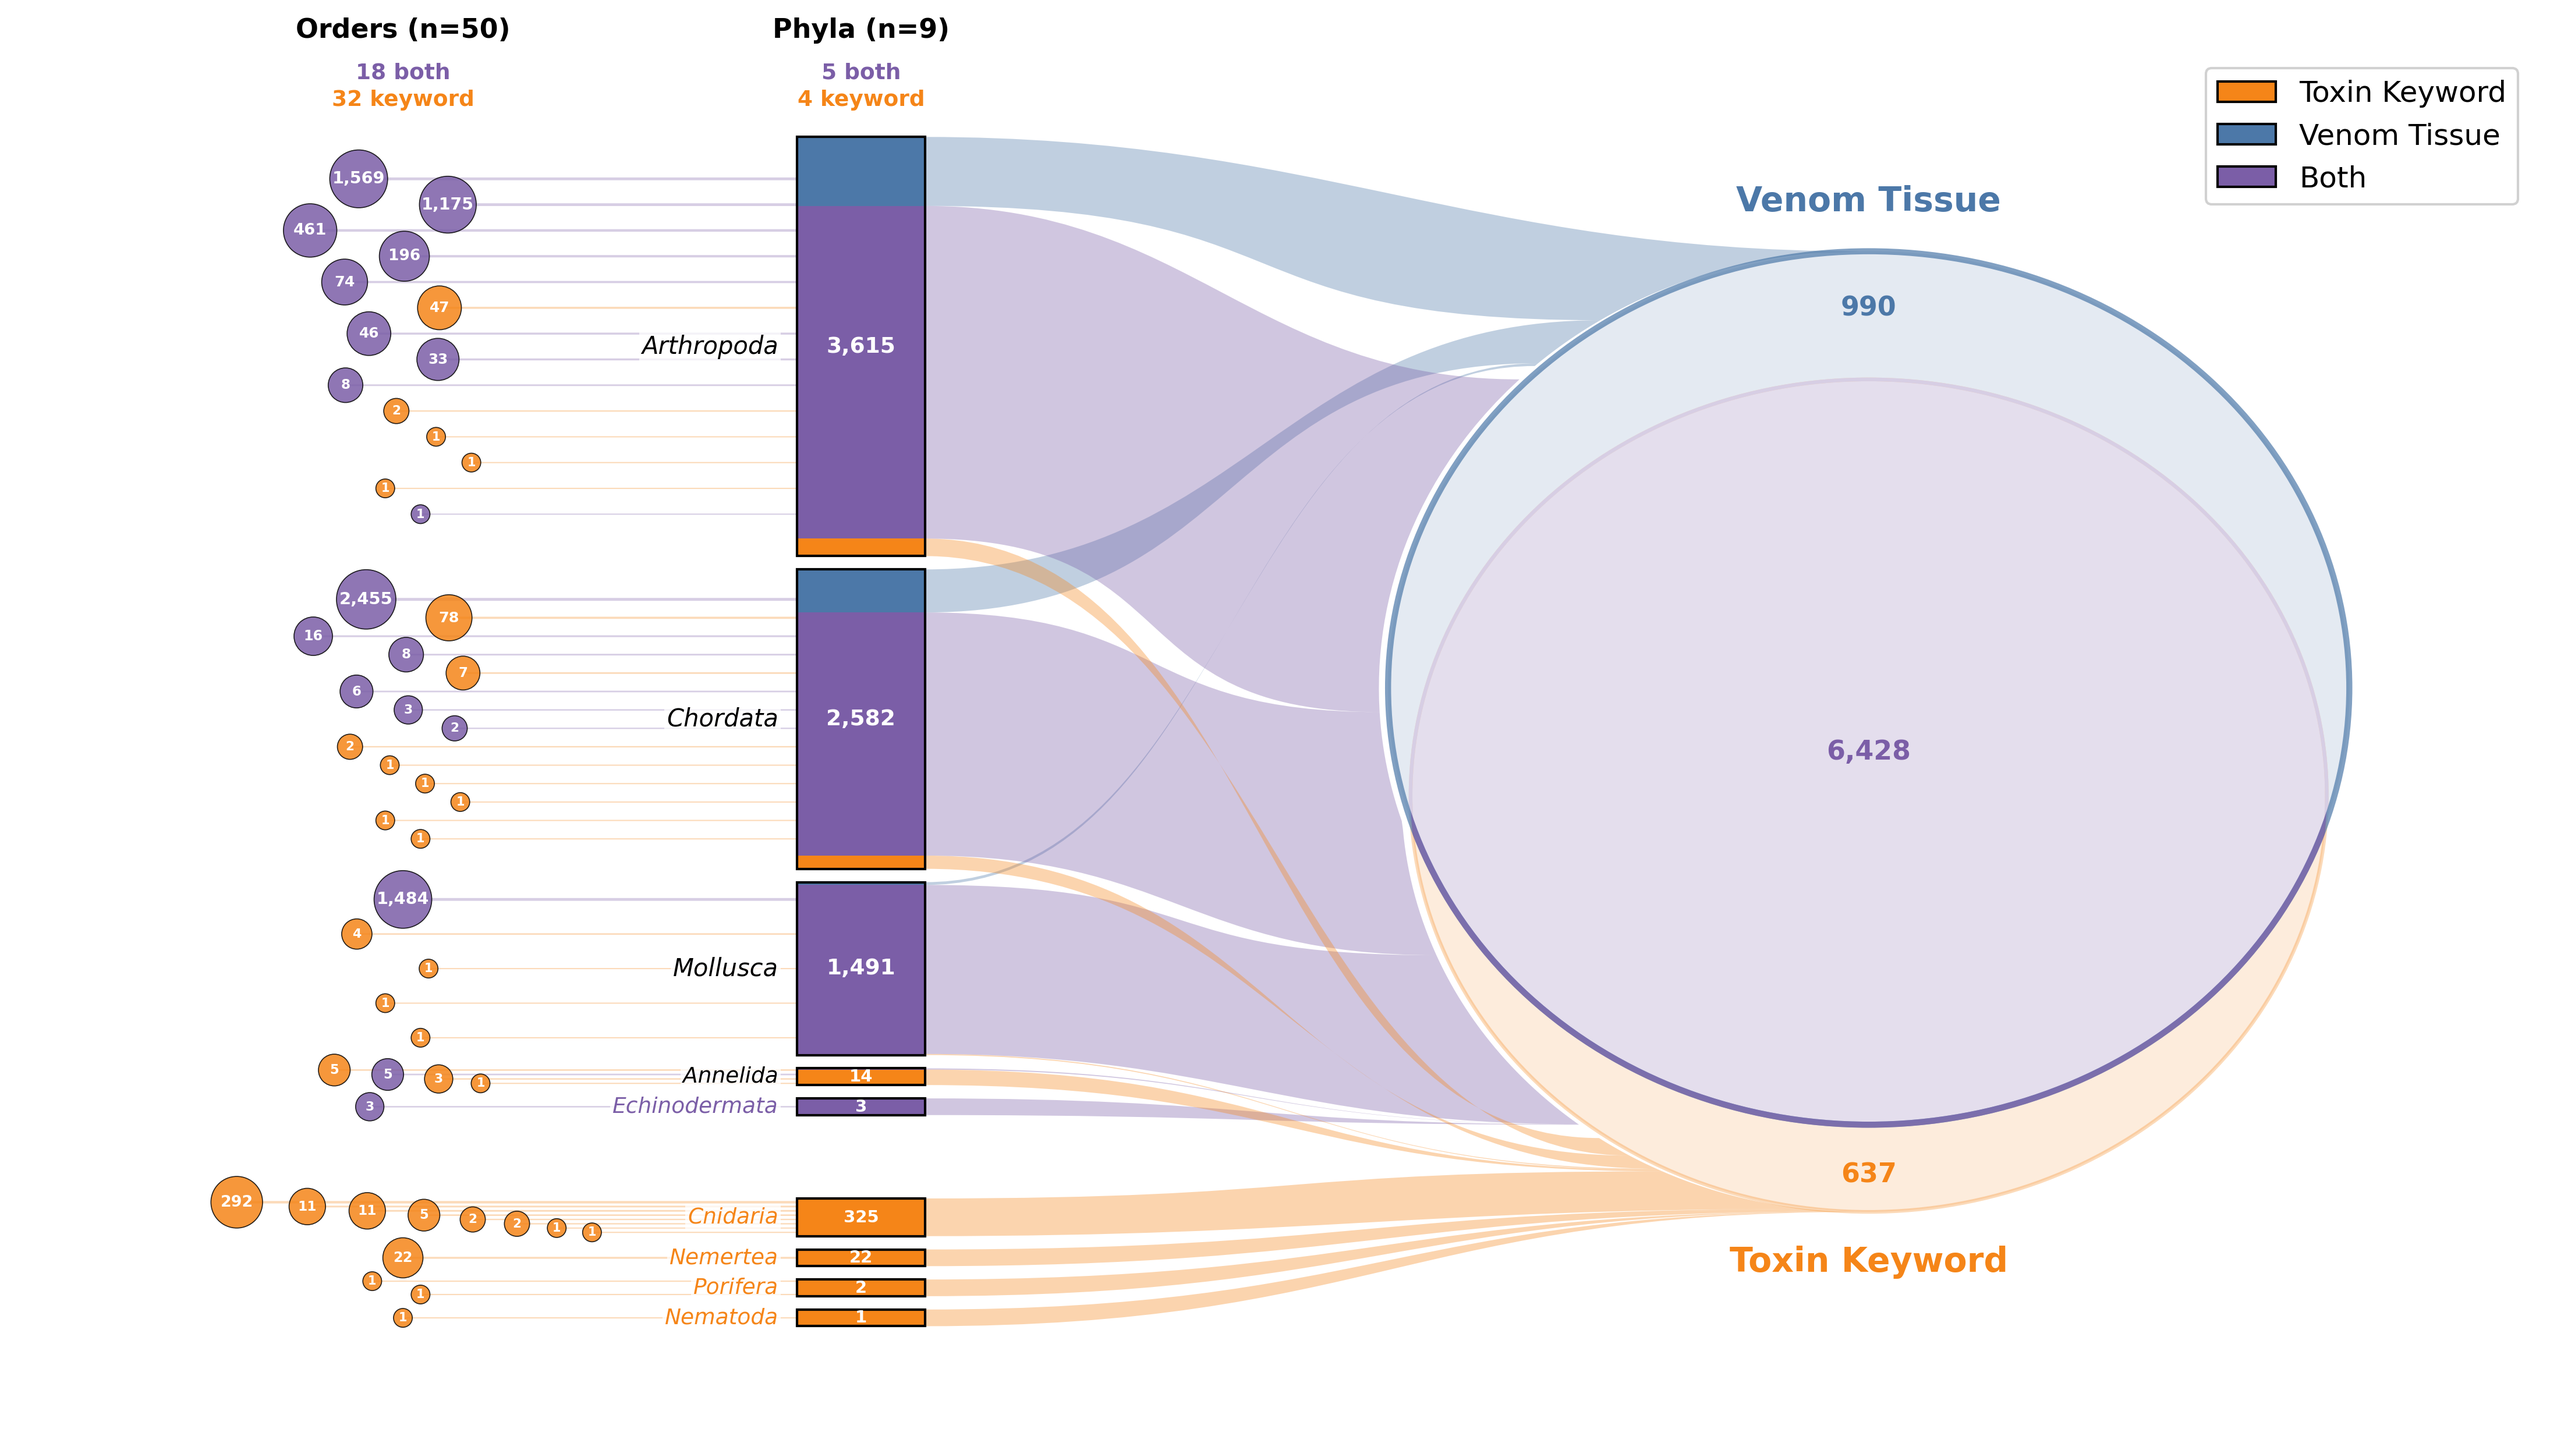
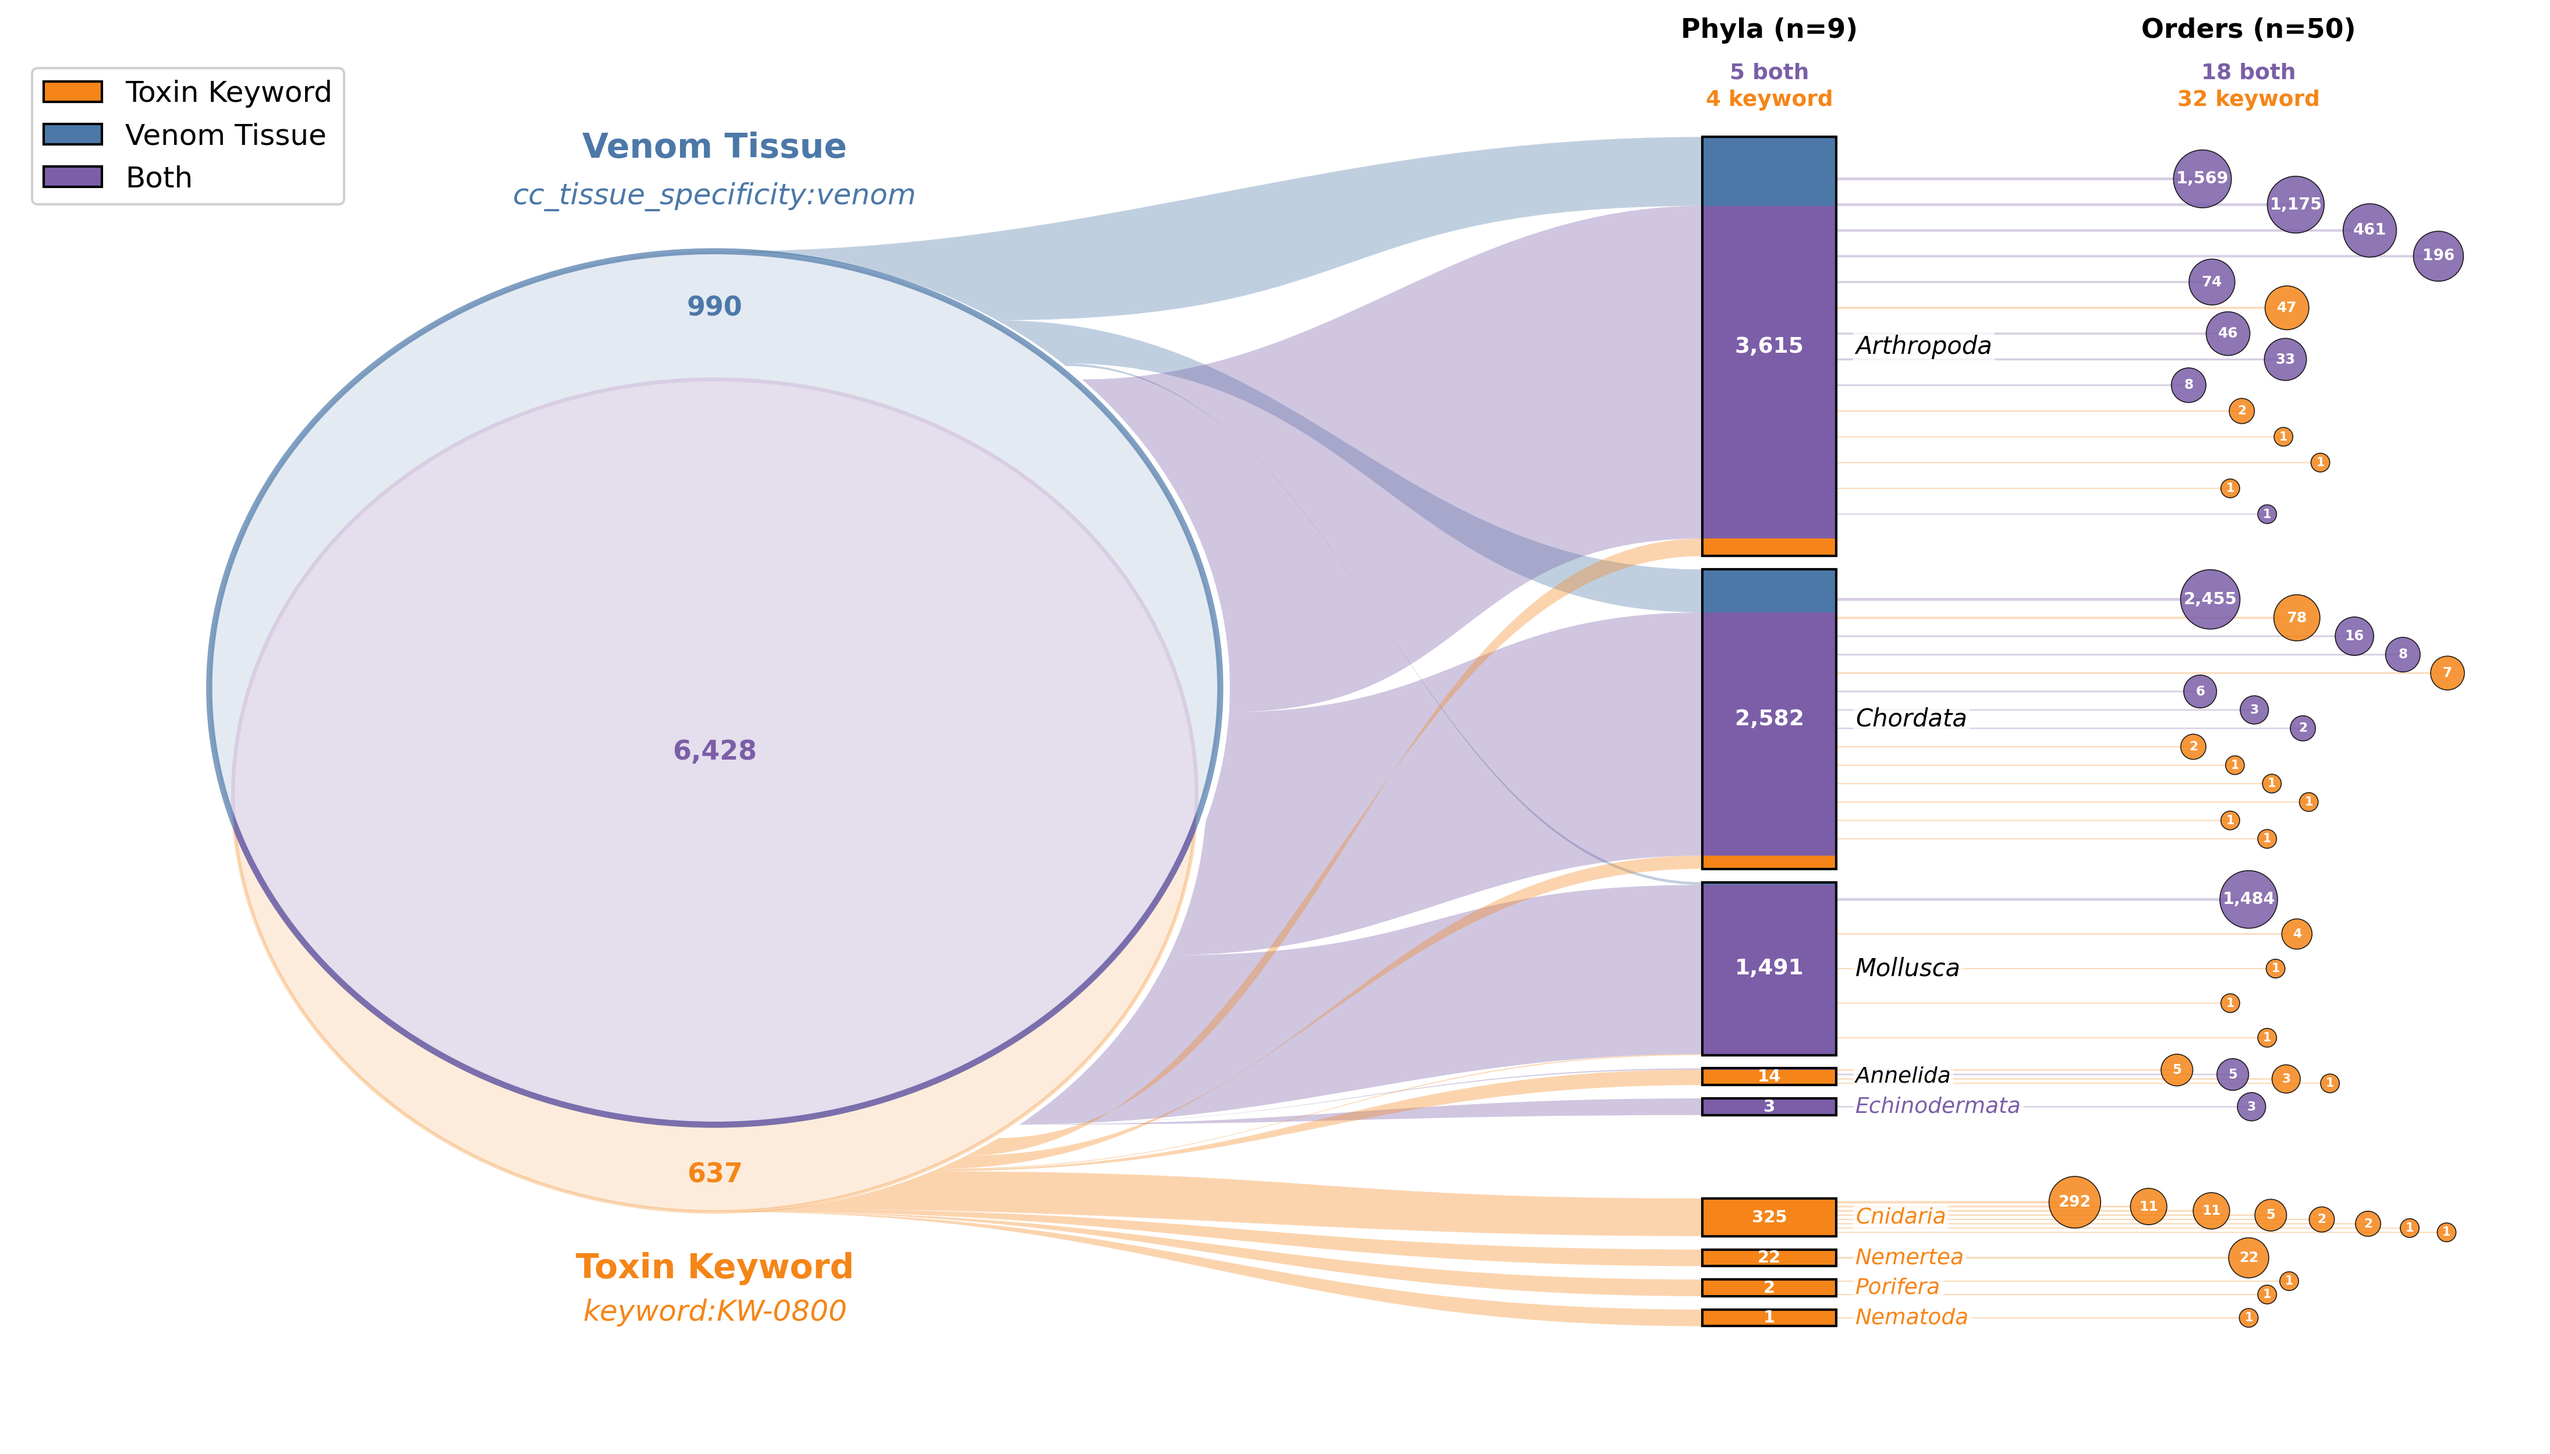
feat(definitions): reverse flow to Venn→phylum→order and add query labels
Reverse figure layout from orders→phyla→Venn to Venn→phyla→orders,
flowing from general to specific. Add UniProt query strings
(cc_tissue_specificity:venom, keyword:KW-0800) below Venn labels.

diff --git a/src/analysis/combine_definition_panels.py b/src/analysis/combine_definition_panels.py
@@ -1,8 +1,8 @@
 #!/usr/bin/env python3
-"""ToxProt Definition Comparison — grouped phylum→Venn flow figure.
+"""ToxProt Definition Comparison — Venn→phylum→order flow figure.
 
-Single-panel figure with phyla grouped by definition exclusivity
-(keyword-exclusive vs shared), flowing into a Venn diagram.
+Single-panel figure flowing from a Venn diagram (left) through phyla bars
+(centre) to individual order dots (right): general to specific.
 
 Usage:
     python -m src.analysis.combine_definition_panels
@@ -72,7 +72,7 @@ def _order_data(df: pd.DataFrame) -> pd.DataFrame:
 
 
 def plot_grouped_phylum_venn_flow(df: pd.DataFrame, ax: plt.Axes) -> None:
-    """Draw grouped phylum -> Venn flow diagram on *ax*."""
+    """Draw Venn -> phylum -> order flow diagram on *ax*."""
     from .analyze_definitions import get_taxa_by_exclusivity
 
     ct = _crosstab(df)
@@ -96,9 +96,9 @@ def plot_grouped_phylum_venn_flow(df: pd.DataFrame, ax: plt.Axes) -> None:
 
     # --- layout constants -------------------------------------------------
     box_w = 0.7
-    x_left = 0.0
-    x_venn = 5.5
-    x_orders = -2.5
+    x_venn = -2.5
+    x_left = 3.0
+    x_orders = 5.5
     gap_within = 0.4
     gap_between = 2.5
     min_bar = 0.5
@@ -136,7 +136,7 @@ def plot_grouped_phylum_venn_flow(df: pd.DataFrame, ax: plt.Axes) -> None:
     ax_w_in = fig_w_in * 0.90
     ax_h_in = fig_h_in * 0.88
     y_range_est = total_left_h + 8.0
-    x_range_pre = (x_venn + 6) - (x_orders - 3.0)
+    x_range_pre = (x_orders + 3.0) - (x_venn - 6)
     pts_per_x = 72 * ax_w_in / x_range_pre
     pts_per_y = 72 * ax_h_in / y_range_est
 
@@ -152,7 +152,7 @@ def plot_grouped_phylum_venn_flow(df: pd.DataFrame, ax: plt.Axes) -> None:
     spacing_x = gap_pts / pts_per_x
     spacing_y = gap_pts / pts_per_y
 
-    dot_x_min_global = x_orders  # track leftmost dot edge for xlim
+    dot_x_max_global = x_orders  # track rightmost dot edge for xlim
 
     for phylum in left_pos:
         pos = left_pos[phylum]
@@ -175,7 +175,7 @@ def plot_grouped_phylum_venn_flow(df: pd.DataFrame, ax: plt.Axes) -> None:
             orders.at[idxs[0], "dot_x"] = x_orders
             orders.at[idxs[0], "dot_y"] = (y_top + y_bot) / 2
             orders.at[idxs[0], "arrival_y"] = (y_top + y_bot) / 2
-            dot_x_min_global = min(dot_x_min_global, x_orders - dot_rx[0])
+            dot_x_max_global = max(dot_x_max_global, x_orders + dot_rx[0])
             continue
 
         # Start narrow (single-column), widen only when vertical space runs out
@@ -243,7 +243,7 @@ def plot_grouped_phylum_venn_flow(df: pd.DataFrame, ax: plt.Axes) -> None:
                 packed = [(k, cx, cy + y_shift) for k, cx, cy in packed]
 
                 for k, cx, _ in packed:
-                    dot_x_min_global = min(dot_x_min_global, cx - dot_rx[k])
+                    dot_x_max_global = max(dot_x_max_global, cx + dot_rx[k])
                 break
 
             strip_w = min(strip_w * 1.5, max_strip_w)
@@ -331,26 +331,26 @@ def plot_grouped_phylum_venn_flow(df: pd.DataFrame, ax: plt.Axes) -> None:
                     current_dx = abs(dx_pts)
                     if current_dx < needed_dx_pts:
                         push = (needed_dx_pts - current_dx) / pts_per_x
-                        # Move the smaller dot further left
+                        # Move the smaller dot further right
                         if r_pts[i] <= r_pts[j]:
-                            dot_x[i] -= push
+                            dot_x[i] += push
                         else:
-                            dot_x[j] -= push
+                            dot_x[j] += push
                         moved = True
         if not moved:
             break
 
     orders["dot_x"] = dot_x
-    dot_x_min_global = min(dot_x_min_global, (dot_x - radii_x).min())
+    dot_x_max_global = max(dot_x_max_global, (dot_x + radii_x).max())
 
-    # Draw order→phylum bezier flows
+    # Draw phylum→order bezier flows
     for _, row in orders.iterrows():
         if row["Phylum"] not in left_pos:
             continue
-        x0 = row["dot_x"]
-        y0 = row["dot_y"]
-        x1 = x_left - box_w / 2  # left edge of phylum bar
-        y1 = row["arrival_y"]
+        x0 = x_left + box_w / 2  # right edge of phylum bar
+        y0 = row["arrival_y"]
+        x1 = row["dot_x"]  # order dot (on the right)
+        y1 = row["dot_y"]
         lw = 0.5 + 0.7 * np.log10(row["count"]) / log_max
         color = DEFINITION_COLORS[row["exclusivity"]]
 
@@ -487,7 +487,7 @@ def plot_grouped_phylum_venn_flow(df: pd.DataFrame, ax: plt.Axes) -> None:
     y_lo = min(zone_kw["bottom"], 0, dot_y_min) - margin_lbl
     y_hi = max(zone_vt["top"], total_left_h, dot_y_max) + margin_lbl
     y_range = y_hi - y_lo
-    x_range_est = (x_venn + 5) - (dot_x_min_global - 1.0)
+    x_range_est = (dot_x_max_global + 1.0) - (x_venn - 5)
     aspect_corr = (ax_h * x_range_est) / (ax_w * y_range)
     rx_vt = ry_vt * aspect_corr
     rx_kw = ry_kw * aspect_corr
@@ -642,42 +642,44 @@ def plot_grouped_phylum_venn_flow(df: pd.DataFrame, ax: plt.Axes) -> None:
         )
     )
 
-    # --- Ellipse left-edge helpers ----------------------------------------
-    def ellipse_left_x(y, cy, ry, r_x):
+    # --- Ellipse right-edge helpers ---------------------------------------
+    def ellipse_right_x(y, cy, ry, r_x):
         t = (y - cy) / ry
         t = np.clip(t, -1.0, 1.0)
-        return x_venn - r_x * np.sqrt(1.0 - t * t)
+        return x_venn + r_x * np.sqrt(1.0 - t * t)
 
     def flow_target_x(defn, y_mid):
         if defn == "kw_toxin":
-            return ellipse_left_x(y_mid, cy_kw, ry_kw, rx_kw)
+            return ellipse_right_x(y_mid, cy_kw, ry_kw, rx_kw)
         elif defn == "venom_tissue":
-            return ellipse_left_x(y_mid, cy_vt, ry_vt, rx_vt)
+            return ellipse_right_x(y_mid, cy_vt, ry_vt, rx_vt)
         else:  # both — follow outermost individual circle outline
-            return min(
-                ellipse_left_x(y_mid, cy_kw, ry_kw, rx_kw),
-                ellipse_left_x(y_mid, cy_vt, ry_vt, rx_vt),
+            return max(
+                ellipse_right_x(y_mid, cy_kw, ry_kw, rx_kw),
+                ellipse_right_x(y_mid, cy_vt, ry_vt, rx_vt),
             )
 
-    # --- Bezier flow helper (stop just before the Venn ellipse) -----------
+    # --- Bezier flow helper (Venn right edge → phylum bar left edge) ------
     n_arc = 30
-    flow_gap = 0.05  # gap between flow end and ellipse boundary
+    flow_gap = 0.05  # gap between flow start and ellipse boundary
 
     def draw_flow(x1, y1b, y1t, y2b, y2t, defn, alpha=0.35):
         color = flow_colors[defn]
-        # Trace ellipse curvature offset by gap
+        # Trace ellipse right-edge curvature offset by gap
         ys_up = np.linspace(y2b, y2t, n_arc)
-        arc_up = [(flow_target_x(defn, y) - flow_gap, y) for y in ys_up]
+        arc_up = [(flow_target_x(defn, y) + flow_gap, y) for y in ys_up]
         x2b, _ = arc_up[0]
         x2t, _ = arc_up[-1]
         x2_mid = (x2b + x2t) / 2
-        ctrl = (x2_mid - x1) * 0.45
+        bar_left = x1 - box_w / 2
+        ctrl = (bar_left - x2_mid) * 0.45
 
+        # Bottom bezier: Venn right edge → bar left edge
         verts = [
-            (x1 + box_w / 2, y1b),
-            (x1 + box_w / 2 + ctrl, y1b),
-            (x2b - ctrl, y2b),
             (x2b, y2b),
+            (x2b + ctrl, y2b),
+            (bar_left - ctrl, y1b),
+            (bar_left, y1b),
         ]
         codes = [
             MplPath.MOVETO,
@@ -685,16 +687,21 @@ def plot_grouped_phylum_venn_flow(df: pd.DataFrame, ax: plt.Axes) -> None:
             MplPath.CURVE4,
             MplPath.CURVE4,
         ]
-        for pt in arc_up[1:]:
-            verts.append(pt)
-            codes.append(MplPath.LINETO)
+        # Line up bar left edge
+        verts.append((bar_left, y1t))
+        codes.append(MplPath.LINETO)
+        # Top bezier: bar left edge → Venn right edge
         verts += [
-            (x2t - ctrl, y2t),
-            (x1 + box_w / 2 + ctrl, y1t),
-            (x1 + box_w / 2, y1t),
+            (bar_left - ctrl, y1t),
+            (x2t + ctrl, y2t),
+            (x2t, y2t),
         ]
         codes += [MplPath.CURVE4, MplPath.CURVE4, MplPath.CURVE4]
-        verts.append((x1 + box_w / 2, y1b))
+        # Arc back down along Venn ellipse
+        for pt in reversed(arc_up[:-1]):
+            verts.append(pt)
+            codes.append(MplPath.LINETO)
+        verts.append((x2b, y2b))
         codes.append(MplPath.CLOSEPOLY)
 
         ax.add_patch(PathPatch(MplPath(verts, codes), fc=color, ec="none", alpha=alpha))
@@ -774,10 +781,10 @@ def plot_grouped_phylum_venn_flow(df: pd.DataFrame, ax: plt.Axes) -> None:
         fs_name = 10 if bar_h > small_thr else 9
         fs_count = 9 if bar_h > small_thr else 7
         ax.text(
-            x_left - box_w / 2 - 0.1,
+            x_left + box_w / 2 + 0.1,
             pos["bottom"] + bar_h / 2,
             phylum,
-            ha="right",
+            ha="left",
             va="center",
             fontsize=fs_name,
             fontstyle="italic",
@@ -846,7 +853,7 @@ def plot_grouped_phylum_venn_flow(df: pd.DataFrame, ax: plt.Axes) -> None:
 
     ax.text(
         x_venn,
-        zone_vt["top"] + 1.0,
+        zone_vt["top"] + 2.6,
         "Venom Tissue",
         ha="center",
         va="bottom",
@@ -856,12 +863,32 @@ def plot_grouped_phylum_venn_flow(df: pd.DataFrame, ax: plt.Axes) -> None:
     )
     ax.text(
         x_venn,
-        zone_kw["bottom"] - 1.0,
+        zone_vt["top"] + 1.2,
+        "cc_tissue_specificity:venom",
+        ha="center",
+        va="bottom",
+        fontsize=12,
+        fontstyle="italic",
+        color=flow_colors["venom_tissue"],
+    )
+    ax.text(
+        x_venn,
+        zone_kw["bottom"] - 1.2,
         "Toxin Keyword",
         ha="center",
         va="top",
         fontsize=14,
         fontweight="bold",
+        color=flow_colors["kw_toxin"],
+    )
+    ax.text(
+        x_venn,
+        zone_kw["bottom"] - 2.6,
+        "keyword:KW-0800",
+        ha="center",
+        va="top",
+        fontsize=12,
+        fontstyle="italic",
         color=flow_colors["kw_toxin"],
     )
 
@@ -894,14 +921,14 @@ def plot_grouped_phylum_venn_flow(df: pd.DataFrame, ax: plt.Axes) -> None:
     ]
     ax.legend(
         handles=legend_elements,
-        loc="upper right",
+        loc="upper left",
         fontsize=12,
         framealpha=0.9,
     )
 
     # --- axis limits ------------------------------------------------------
     rx_max = max(rx_vt, rx_kw)
-    ax.set_xlim(dot_x_min_global - 1.0, x_venn + rx_max + 1.0)
+    ax.set_xlim(x_venn - rx_max - 1.0, dot_x_max_global + 0.3)
     ax.set_ylim(y_lo, y_hi)
     ax.axis("off")
 
@@ -915,7 +942,7 @@ def create_combined_definition_figure(
     df: pd.DataFrame,
     output_dir: Path,
 ) -> Path:
-    """Create grouped phylum->Venn definition comparison figure."""
+    """Create Venn->phylum->order definition comparison figure."""
     output_dir.mkdir(parents=True, exist_ok=True)
 
     fig, ax = plt.subplots(figsize=(16, 9))
